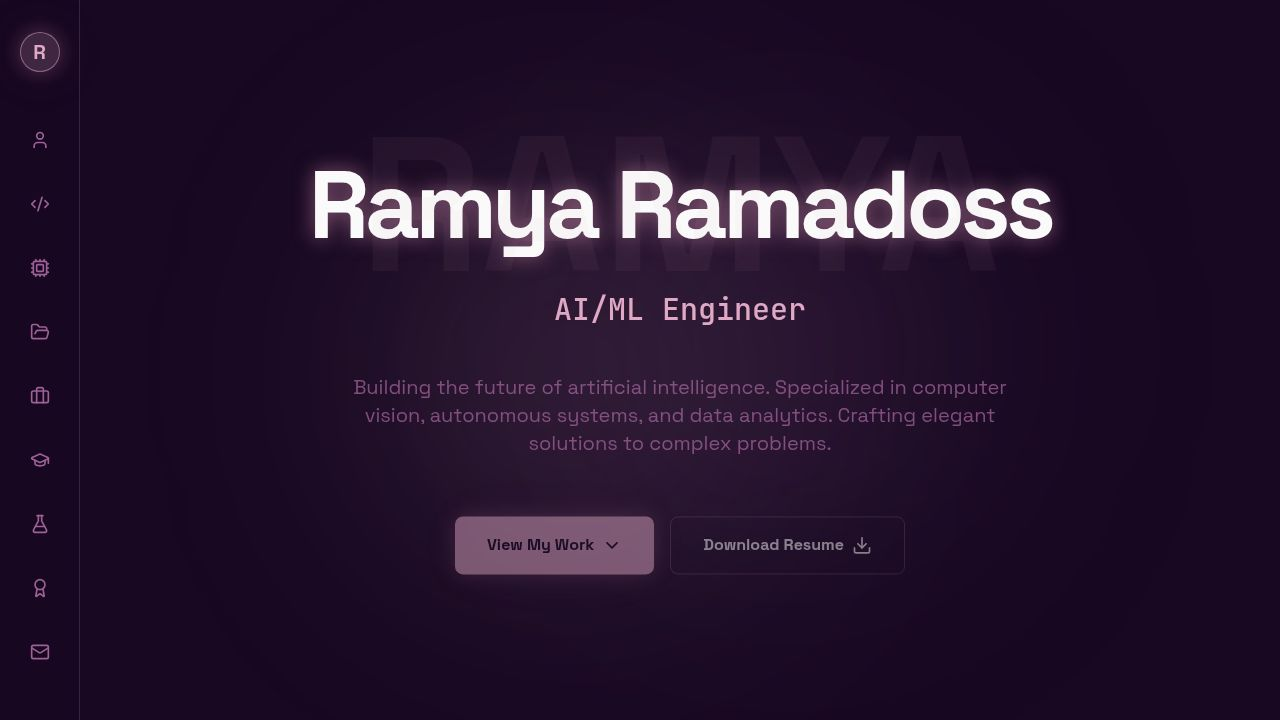
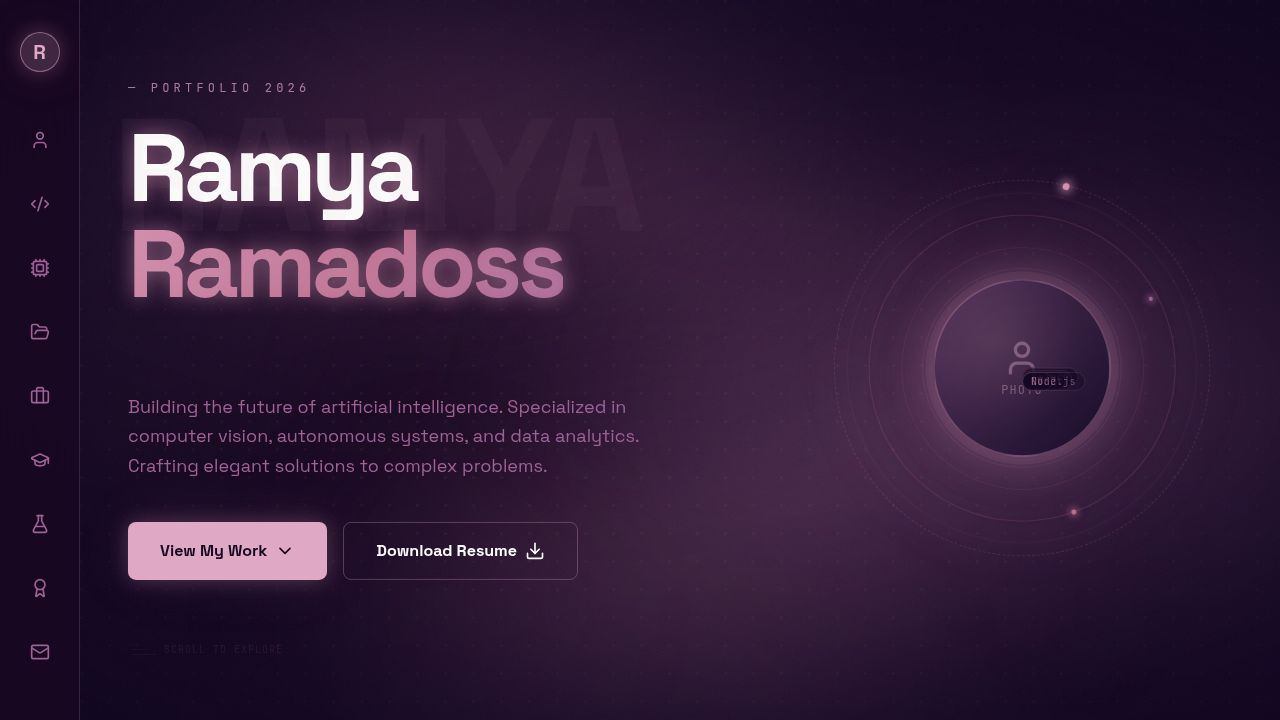
Replace animated backgrounds with a dynamic aurora gradient mesh
Replace ParticleNetwork and GeometricAccents with a new AuroraBg component, which includes animated gradient blobs, a dot grid overlay, noise grain texture, and a vignette effect, all styled in CSS.

Replit-Commit-Author: Agent
Replit-Commit-Session-Id: 6c0c970a-2967-42a4-9516-fc4e593736c8
Replit-Commit-Checkpoint-Type: full_checkpoint
Replit-Commit-Event-Id: c3a8e795-32a9-4b7c-a4e0-690c93a540b6
Replit-Commit-Screenshot-Url: https://storage.googleapis.com/screenshot-production-us-central1/8c0aca90-56d1-4dff-a7c2-b03c220d94d9/6c0c970a-2967-42a4-9516-fc4e593736c8/WadIrN3
Replit-Helium-Checkpoint-Created: true

Changed region(s): [[0.0938, 0.0917, 0.9688, 0.9167]]

diff --git a/artifacts/portfolio/src/index.css b/artifacts/portfolio/src/index.css
@@ -101,6 +101,63 @@
   }
 }
 
+/* ── Aurora background blobs ──────────────────────────────── */
+.aurora-blob {
+  position: absolute;
+  border-radius: 50%;
+  filter: blur(90px);
+  mix-blend-mode: screen;
+  will-change: transform;
+}
+.aurora-1 {
+  width: 70vw; height: 60vh;
+  top: -15%; left: -10%;
+  background: radial-gradient(ellipse, rgba(186,110,143,0.45) 0%, rgba(93,60,100,0.2) 50%, transparent 80%);
+  animation: aurora1 18s ease-in-out infinite alternate;
+}
+.aurora-2 {
+  width: 60vw; height: 70vh;
+  top: 20%; right: -15%;
+  background: radial-gradient(ellipse, rgba(93,60,100,0.5) 0%, rgba(159,100,150,0.2) 50%, transparent 80%);
+  animation: aurora2 22s ease-in-out infinite alternate;
+}
+.aurora-3 {
+  width: 55vw; height: 55vh;
+  bottom: -10%; left: 20%;
+  background: radial-gradient(ellipse, rgba(211,145,176,0.35) 0%, rgba(122,70,106,0.15) 55%, transparent 80%);
+  animation: aurora3 26s ease-in-out infinite alternate;
+}
+.aurora-4 {
+  width: 40vw; height: 40vh;
+  top: 40%; left: 30%;
+  background: radial-gradient(ellipse, rgba(159,100,150,0.3) 0%, transparent 70%);
+  animation: aurora1 14s ease-in-out infinite alternate-reverse;
+}
+.aurora-5 {
+  width: 35vw; height: 45vh;
+  top: 5%; right: 25%;
+  background: radial-gradient(ellipse, rgba(211,145,176,0.2) 0%, transparent 65%);
+  animation: aurora2 19s ease-in-out infinite alternate-reverse;
+}
+@keyframes aurora1 {
+  0%   { transform: translate(0, 0) scale(1) rotate(0deg); }
+  30%  { transform: translate(6vw, 4vh) scale(1.1) rotate(8deg); }
+  60%  { transform: translate(-4vw, 8vh) scale(0.95) rotate(-5deg); }
+  100% { transform: translate(8vw, -5vh) scale(1.08) rotate(12deg); }
+}
+@keyframes aurora2 {
+  0%   { transform: translate(0, 0) scale(1) rotate(0deg); }
+  35%  { transform: translate(-7vw, -5vh) scale(1.12) rotate(-10deg); }
+  65%  { transform: translate(5vw, 9vh) scale(0.93) rotate(6deg); }
+  100% { transform: translate(-5vw, 3vh) scale(1.06) rotate(-8deg); }
+}
+@keyframes aurora3 {
+  0%   { transform: translate(0, 0) scale(1) rotate(0deg); }
+  40%  { transform: translate(5vw, -6vh) scale(1.09) rotate(7deg); }
+  70%  { transform: translate(-6vw, -3vh) scale(0.97) rotate(-4deg); }
+  100% { transform: translate(3vw, 7vh) scale(1.04) rotate(10deg); }
+}
+
 /* ── Ambient floating orbs ─────────────────────────────────── */
 .orb {
   position: absolute;

diff --git a/artifacts/portfolio/src/components/AuroraBg.tsx b/artifacts/portfolio/src/components/AuroraBg.tsx
@@ -1,0 +1,42 @@
+import React from 'react';
+
+export function AuroraBg() {
+  return (
+    <div className="absolute inset-0 overflow-hidden" aria-hidden="true">
+      {/* Noise grain texture overlay */}
+      <svg className="absolute inset-0 w-full h-full opacity-[0.03] pointer-events-none" style={{ zIndex: 10 }}>
+        <filter id="noise">
+          <feTurbulence type="fractalNoise" baseFrequency="0.65" numOctaves="3" stitchTiles="stitch" />
+          <feColorMatrix type="saturate" values="0" />
+        </filter>
+        <rect width="100%" height="100%" filter="url(#noise)" />
+      </svg>
+
+      {/* Dot grid */}
+      <svg className="absolute inset-0 w-full h-full opacity-[0.06] pointer-events-none" style={{ zIndex: 1 }}>
+        <defs>
+          <pattern id="dots" x="0" y="0" width="28" height="28" patternUnits="userSpaceOnUse">
+            <circle cx="1.5" cy="1.5" r="1.5" fill="rgba(211,145,176,1)" />
+          </pattern>
+        </defs>
+        <rect width="100%" height="100%" fill="url(#dots)" />
+      </svg>
+
+      {/* Aurora blobs */}
+      <div className="aurora-blob aurora-1" />
+      <div className="aurora-blob aurora-2" />
+      <div className="aurora-blob aurora-3" />
+      <div className="aurora-blob aurora-4" />
+      <div className="aurora-blob aurora-5" />
+
+      {/* Vignette to darken edges */}
+      <div
+        className="absolute inset-0 pointer-events-none"
+        style={{
+          background: 'radial-gradient(ellipse 80% 70% at 50% 50%, transparent 30%, rgba(12,4,32,0.75) 100%)',
+          zIndex: 9,
+        }}
+      />
+    </div>
+  );
+}

diff --git a/artifacts/portfolio/src/components/Hero.tsx b/artifacts/portfolio/src/components/Hero.tsx
@@ -2,8 +2,7 @@ import React, { useState, useEffect } from 'react';
 import { motion, AnimatePresence } from 'framer-motion';
 import { profile } from '../data/profile';
 import { ChevronDown, Download } from 'lucide-react';
-import { ParticleNetwork } from './ParticleNetwork';
-import { GeometricAccents } from './GeometricAccents';
+import { AuroraBg } from './AuroraBg';
 import { ProfileAvatar } from './ProfileAvatar';
 
 export function Hero() {
@@ -18,22 +17,9 @@ export function Hero() {
 
   return (
     <section id="hero" className="relative min-h-screen flex items-center overflow-hidden py-20 px-6 md:px-12">
-      {/* Particle network canvas */}
+      {/* Aurora gradient mesh background */}
       <div className="absolute inset-0 z-0">
-        <ParticleNetwork />
-      </div>
-
-      {/* Soft bloom orbs behind text */}
-      <div className="absolute inset-0 z-[1] pointer-events-none">
-        <div className="absolute top-1/3 left-1/4 w-[500px] h-[500px] rounded-full"
-          style={{ background: 'radial-gradient(circle, rgba(211,145,176,0.07) 0%, transparent 65%)', filter: 'blur(50px)' }} />
-        <div className="absolute bottom-1/4 right-1/4 w-80 h-80 rounded-full animate-pulse"
-          style={{ background: 'radial-gradient(circle, rgba(93,60,100,0.15) 0%, transparent 70%)', filter: 'blur(60px)', animationDuration: '5s' }} />
-      </div>
-
-      {/* Geometric accent decorations */}
-      <div className="absolute inset-0 z-[1]">
-        <GeometricAccents />
+        <AuroraBg />
       </div>
 
       {/* Two-column layout: text + neural sphere */}
